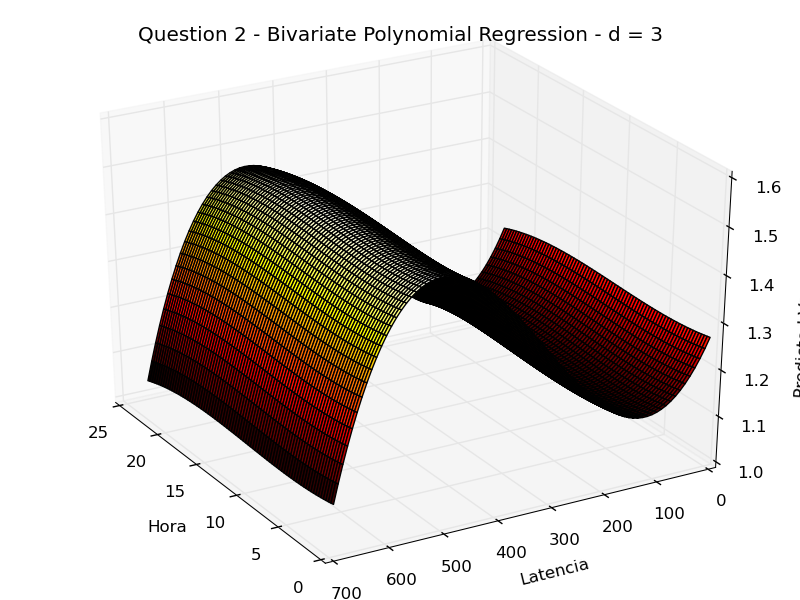
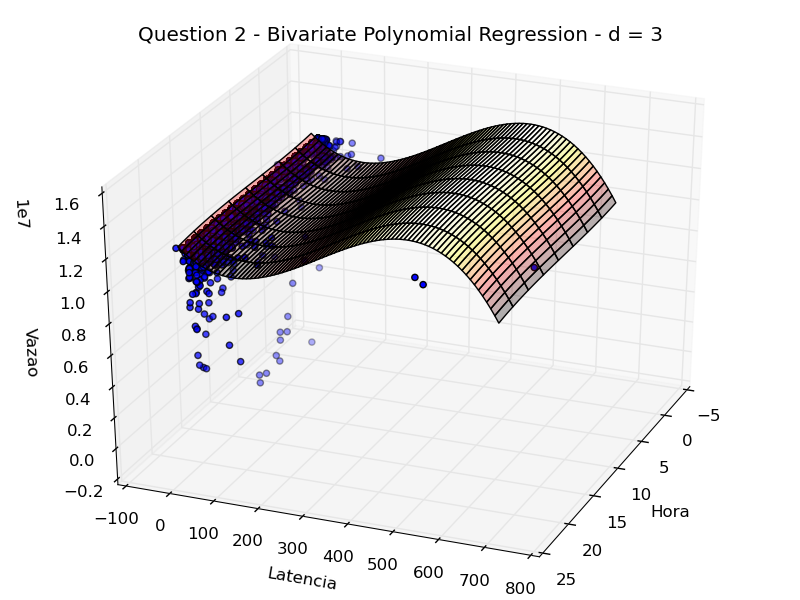
Trying to do something on question 3, but failed

diff --git a/Lista2/question3/question3.py b/Lista2/question3/question3.py
@@ -1,0 +1,81 @@
+import sys
+import numpy
+import pandas
+import pylab
+from mpl_toolkits.mplot3d import Axes3D
+from sklearn import mixture
+from sklearn import preprocessing
+
+filesDir = "../"
+filesName = ["53.txt", "78.txt", "80.txt", "100.txt", "105.txt"]
+
+data = pandas.DataFrame()
+dataList = []
+for fileName in filesName:
+	frame = pandas.read_csv(filesDir+fileName, header=None)
+	dataList.append(frame)
+data = pandas.concat(dataList)
+featuresData = data.copy()
+
+vazao = 'Col5'
+hora = 'Col3'
+latencia = 'Col6'
+
+for i in range(len(data.columns)):
+	if (i not in [2,4,5]):
+		del data[i]
+		del featuresData[i]
+	elif (i in [4]):
+		del featuresData[i]
+
+data.rename(columns={2:'Col3', 4:'Col5', 5:'Col6'}, inplace=True)
+#featuresData.rename(columns={2:'Col3', 5:'Col6'}, inplace=True)
+
+dList = [2,3,5]
+
+for d in dList:
+	gmm = mixture.GMM(n_components=d, covariance_type='diag')
+	gmm.fit(data)
+	likelihoods = gmm.score(data)
+	
+	#sys.stdout = open("scoreD"+str(d)+".txt", 'w')
+	#print sum(likelihoods)
+	
+	#X = numpy.arange(data[['Col3']].min(), data[['Col3']].max(), (data[['Col3']].max()-data[['Col3']].min())/80)
+	#Y = numpy.arange(data[['Col6']].min(), data[['Col6']].max(), (data[['Col6']].max()-data[['Col6']].min())/80)
+	#Z = numpy.arange(data[['Col5']].min(), data[['Col5']].max(), (data[['Col5']].max()-data[['Col5']].min())/80)
+	
+	#continuousData = pandas.DataFrame(X)
+	#continuousData.insert(len(continuousData.columns), 'Col5', Z)
+	#continuousData.insert(len(continuousData.columns), 'Col6', Y)
+	#continuousData.rename(columns={0:'Col3', 1:'Col5', 2:'Col6'}, inplace=True)
+	
+	#labels = gmm.predict(continuousData)
+	
+	#clusterData = pandas.DataFrame(continuousData)
+	#clusterData.insert(len(clusterData.columns), 'Label', labels)
+	
+	sample = gmm.sample(3425)
+	
+	figure = pylab.figure(figsize=pylab.figaspect(0.5))
+	axes = figure.add_subplot(1, 2, 1, projection='3d')
+	
+	axes.set_title('Question 3 - Data')
+	axes.set_xlabel('Hora')
+	axes.set_ylabel('Latencia')
+	axes.set_zlabel('Vazao')
+	
+	axes.view_init(elev=30., azim=22)
+	axes.scatter(data.Col3, data.Col5, data.Col6, c='green')
+	
+	axes = figure.add_subplot(1, 2, 2, projection='3d')
+	
+	axes.set_title('Question 3 - Gaussian Mixture - d = '+str(d))
+	axes.set_xlabel('Hora')
+	axes.set_ylabel('Latencia')
+	axes.set_zlabel('Vazao')
+	
+	axes.view_init(elev=30., azim=22)
+	axes.scatter(sample[:,0], sample[:,1], sample[:,2], c='red')
+	
+	pylab.savefig("d"+str(d)+".png")

diff --git a/Lista2/question2/question2.py b/Lista2/question2/question2.py
@@ -49,13 +49,14 @@ for d in dList:
 	
 	for expo in range(1,d+1):
 		Z += poly_2.params[(2*expo)-1]*(X**expo) + poly_2.params[2*expo]*(Y**expo)
-
-	axes.plot_surface(X, Y, Z, rstride=1, cstride=1, cmap='hot')
+		
+	axes.plot_surface(X, Y, Z, rstride=1, cmap='hot', alpha=0.3)
 	axes.set_title('Question 2 - Bivariate Polynomial Regression - d = '+str(d))
 	axes.set_xlabel('Hora')
 	axes.set_ylabel('Latencia')
-	axes.set_zlabel('Predicted Vazao')
+	axes.set_zlabel('Vazao')
 	
-	axes.view_init(elev=30., azim=150)
+	axes.view_init(elev=30., azim=22)
+	axes.scatter(data.Col3, data.Col6, data.Col5)
 	pylab.savefig("d"+str(d)+".png")
 	
